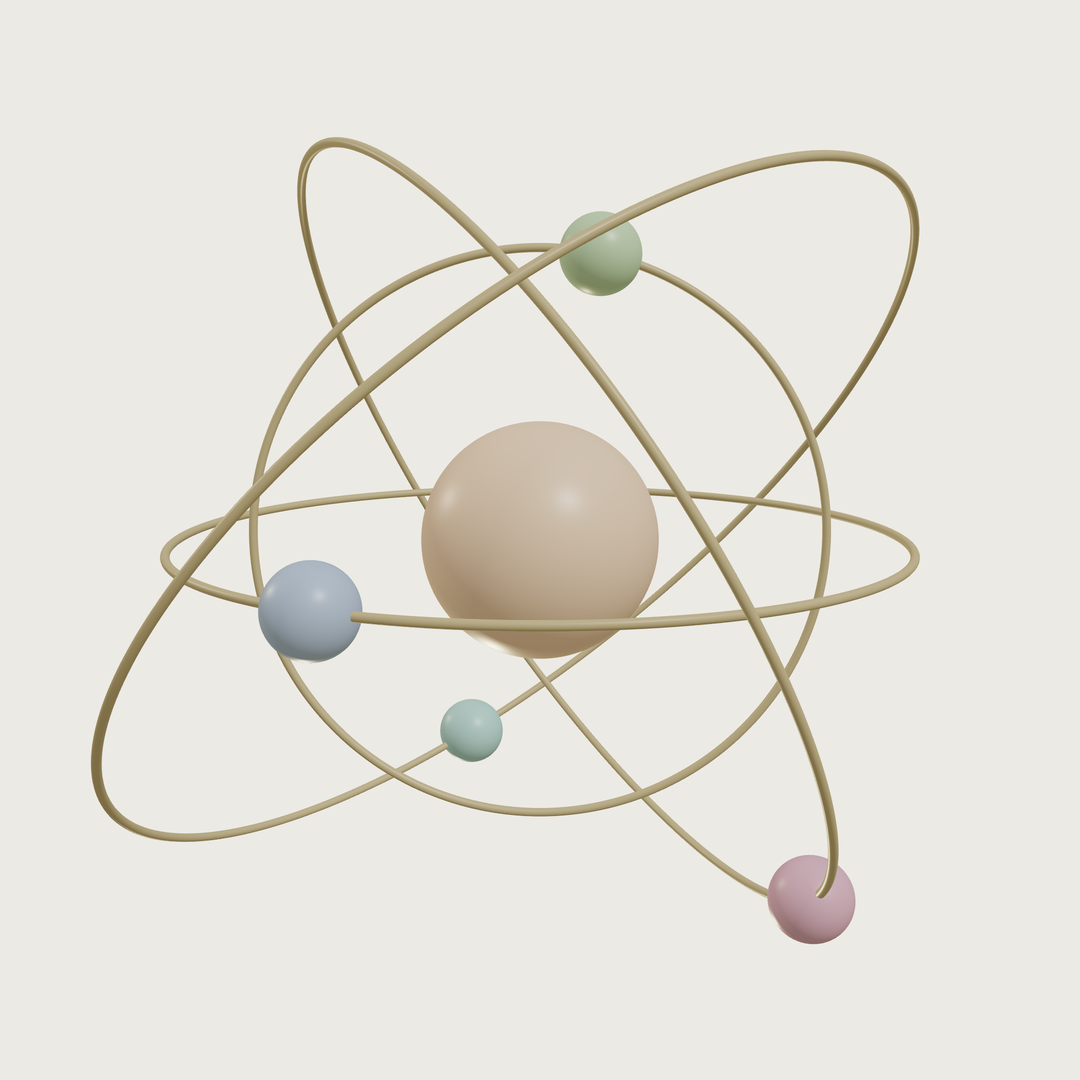
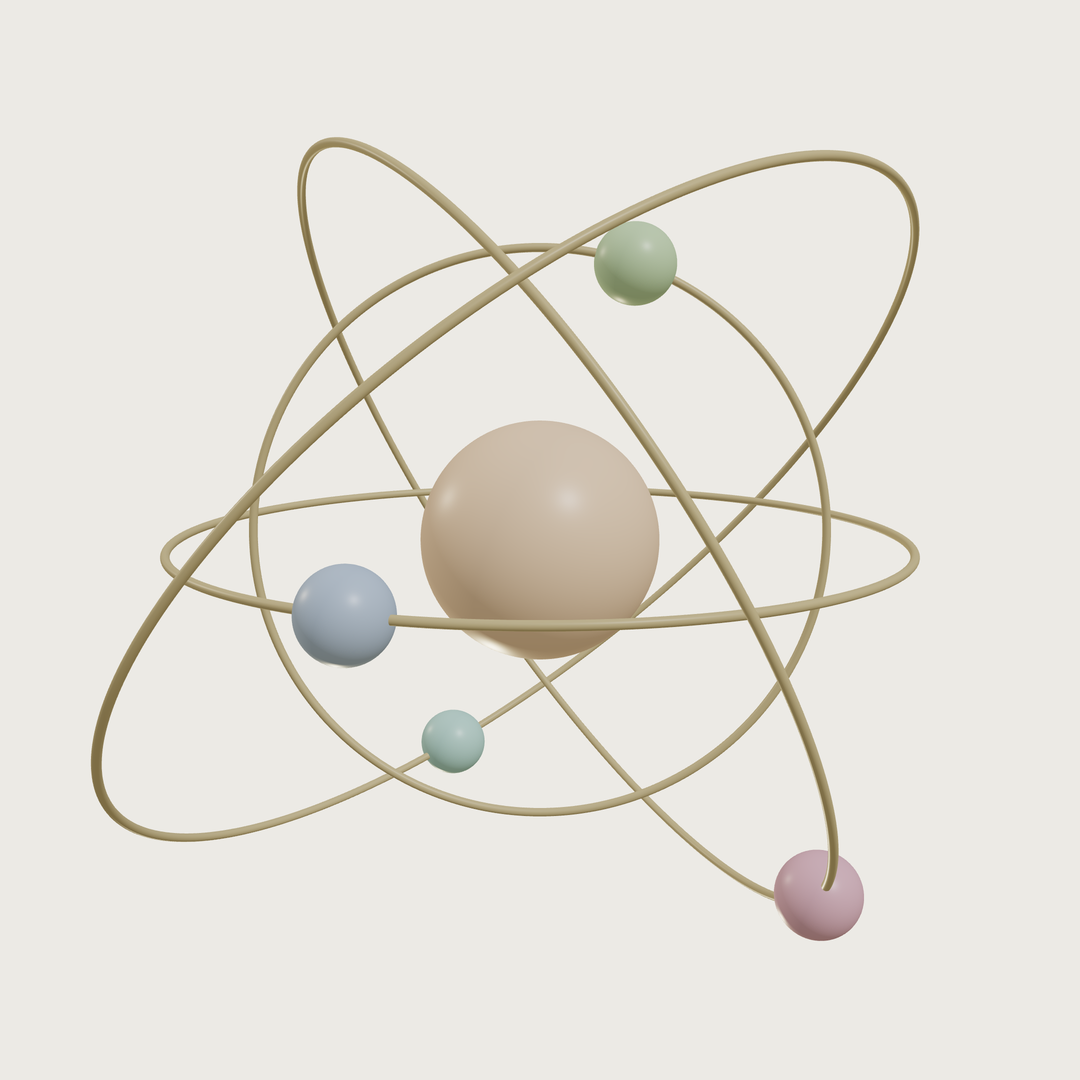
Brand images: wordmark-only and text-free sets at every size
The hero now comes in three sets at the five social sizes: as on the page,
with the MULVIUM wordmark only, and with no text at all. capture-hero.js
makes all three, or one set when named.

Claude-Session: https://claude.ai/code/session_01EmhcnMjTwUHFJhC4c4AJpu

diff --git a/brand/render/capture-hero.js b/brand/render/capture-hero.js
@@ -1,7 +1,10 @@
 // capture-hero.js — captures the landing page's hero at social-media sizes,
-// after the loading screen and the entrance have played. Hides the "Click a
-// sphere" hint, the custom cursor and the docked footer; `cosmos` images also
-// hide the wordmark and statements.
+// after the loading screen and the entrance have played, in three sets:
+//   mulvium-hero-*      the hero as it stands: wordmark, statement, mission
+//   mulvium-wordmark-*  the wordmark only
+//   mulvium-cosmos-*    no text at all
+// Every set hides the "Click a sphere" hint, the custom cursor and the docked
+// footer.
 //
 // From the repository root, with Playwright installed:
 //   python3 -m http.server 8765 &
@@ -11,15 +14,18 @@ const { chromium } = require("playwright");
 
 const OUT = process.argv[2] || "./";
 const HIDE = "#cosmos-hint,.cur-star,.cur-ring,#site-footer{display:none!important}";
-const NOTEXT = ".hero-wrap,.hero-statements{visibility:hidden!important}";
-const SHOTS = [
-  ["mulvium-hero-1920x1080", 1920, 1080, HIDE],
-  ["mulvium-hero-1080x1080", 1080, 1080, HIDE],
-  ["mulvium-hero-1200x630", 1200, 630, HIDE],
-  ["mulvium-hero-1500x500", 1500, 500, HIDE],
-  ["mulvium-hero-1584x396", 1584, 396, HIDE],
-  ["mulvium-cosmos-1080x1080", 1080, 1080, HIDE + NOTEXT],
+const SETS = [
+  ["mulvium-hero", HIDE],
+  ["mulvium-wordmark", HIDE + ".hero-statements{visibility:hidden!important}"],
+  ["mulvium-cosmos", HIDE + ".hero-wrap,.hero-statements{visibility:hidden!important}"],
 ];
+const SIZES = [[1920, 1080], [1080, 1080], [1200, 630], [1500, 500], [1584, 396]];
+const ONLY = process.argv[3] ? process.argv[3].split(",") : null; // e.g. mulvium-wordmark
+const SHOTS = [];
+for (const [set, css] of SETS) {
+  if (ONLY && !ONLY.includes(set)) continue;
+  for (const [w, h] of SIZES) SHOTS.push([`${set}-${w}x${h}`, w, h, css]);
+}
 
 (async () => {
   // Software WebGL, so it runs on a machine without a GPU

diff --git a/brand/README.md b/brand/README.md
@@ -5,19 +5,33 @@ icons, posts and banners. They are rendered from the site itself, not drawn:
 the sphere with the landing page's own material, lights and camera angle
 (`js/main.js`), and the hero captured from the live page after its entrance.
 
+**The sphere**
+
 | File | Size | Use |
 |---|---|---|
 | `mulvium-sphere-1024.png` | 1024 × 1024 | Profile icon: the sphere on paper, with margin for circular crops |
 | `mulvium-sphere-400.png` | 400 × 400 | The same, at the size most profiles display |
 | `mulvium-sphere-transparent-1024.png` | 1024 × 1024 | The sphere alone, on transparency |
-| `mulvium-cosmos-1080x1080.png` | 1080 × 1080 | Square posts or an alternative avatar: the solar system without text |
-| `mulvium-hero-1920x1080.png` | 1920 × 1080 | Wide posts, video thumbnails |
-| `mulvium-hero-1200x630.png` | 1200 × 630 | Link previews |
-| `mulvium-hero-1500x500.png` | 1500 × 500 | X header |
-| `mulvium-hero-1584x396.png` | 1584 × 396 | LinkedIn banner (the profile photo covers its lower-left corner) |
-| `mulvium-hero-1080x1080.png` | 1080 × 1080 | Square, with the wordmark and statements |
 
-Every hero and cosmos image also has an `@2x` copy at twice the size.
+**The hero, in three sets.** Every set comes at the same five sizes:
+
+| Set | Text |
+|---|---|
+| `mulvium-hero-<size>.png` | The wordmark, the statement and the mission, as on the page |
+| `mulvium-wordmark-<size>.png` | The MULVIUM wordmark only |
+| `mulvium-cosmos-<size>.png` | No text at all |
+
+| Size | Use |
+|---|---|
+| 1920x1080 | Wide posts, video thumbnails |
+| 1080x1080 | Square posts; the cosmos square also works as an avatar |
+| 1200x630 | Link previews |
+| 1500x500 | X header |
+| 1584x396 | LinkedIn banner (the profile photo covers its lower-left corner) |
+
+Every hero image also has an `@2x` copy at twice the size. The planets sit in
+slightly different places from set to set, because each is captured from the
+page as it orbits.
 
 ## Making them again
 
@@ -25,5 +39,6 @@ Every hero and cosmos image also has an `@2x` copy at twice the size.
   (`?bg=paper|none`, `&fill=` the share of the frame it fills, `&size=` in
   pixels); save the canvas. The files here use `bg=paper&fill=0.62` and
   `bg=none&fill=0.92`, at 1024.
-- **The hero:** follow the steps at the top of `render/capture-hero.js`, then
+- **The hero:** follow the steps at the top of `render/capture-hero.js` (a third
+  argument such as `mulvium-wordmark` makes one set only), then
   scale each `@2x` capture to half size (Lanczos) for the exact sizes above.
